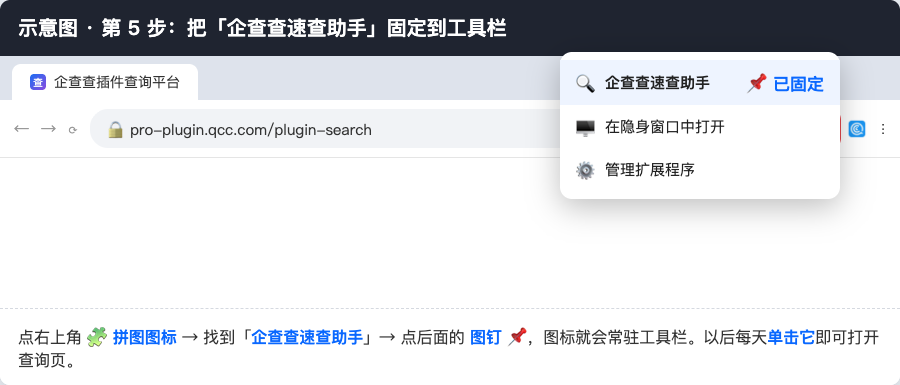
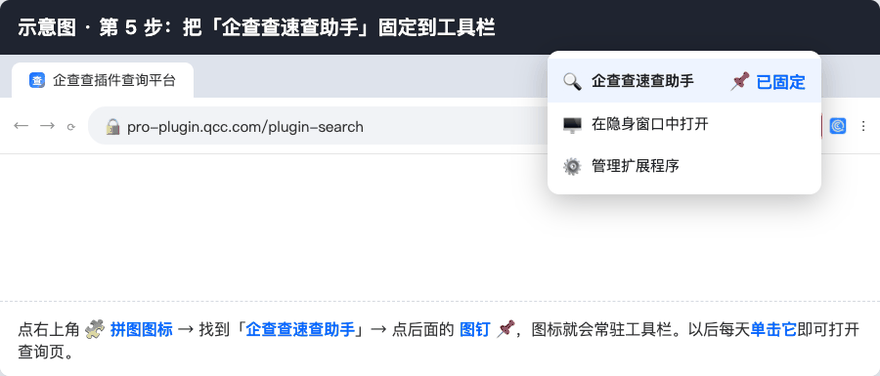
README 图片瘦身：680KB→170KB，缓解 GitHub 图片加载慢
- 截图重采样至 880 宽（GitHub 正文实际显示宽度）+ 256 色调色板，文字保持清晰
- 卡通头图转 WebP 并缩到 320 宽：287KB→8KB
- 慢的主因是国内访问 GitHub 的网络，压缩只能按比例缓解

diff --git a/README.md b/README.md
@@ -1,7 +1,7 @@
 # 企查查速查助手
 
 <p align="center">
-  <img src="docs/images/mascot.png" alt="企查查速查助手 · 卡通形象" width="300">
+  <img src="docs/images/mascot.webp" alt="企查查速查助手 · 卡通形象" width="280">
 </p>
 
 > **适用对象**：所内同事（内部工具）。
